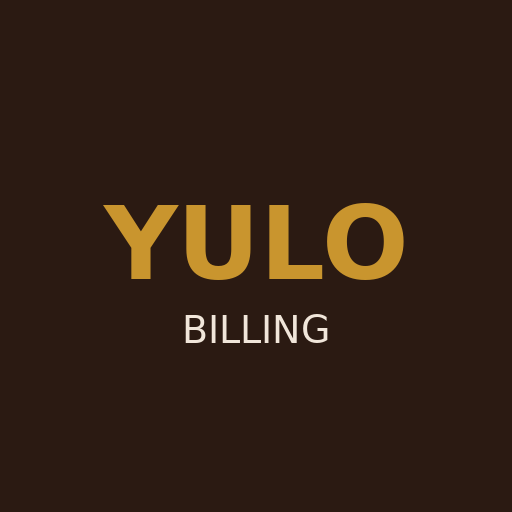
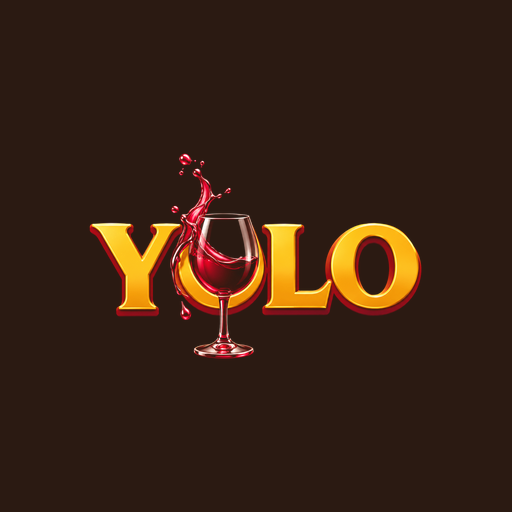
Add files via upload

Changed region(s): [[0.1562, 0.2812, 0.8438, 0.7188]]

diff --git a/js/admin.js b/js/admin.js
@@ -1,7 +1,8 @@
 // Menu management, settings, backup and restore.
 import * as db from './db.js';
 import * as printer from './printer.js';
-import {S, emit, reloadProducts, saveSettings, categories} from './state.js';
+import {S, emit, reloadProducts, saveSettings, categories, saveAllFiles, savePendingFiles} from './state.js';
+import * as files from './files.js';
 import {esc, rupees, toPaise, dayKey, download, billLabel} from './util.js';
 import {buildReceipt, toText, toEscPos} from './receipt.js';
 import {parseCSV, toCSV} from './csv.js';
@@ -151,6 +152,13 @@ export function initSettings() {
   $('#sBackupShare').onclick = () => backup('share');
   $('#sRestore').onclick = () => $('#sRestoreFile').click();
   $('#sRestoreFile').onchange = async e => { const f = e.target.files[0]; e.target.value = ''; if (f) restore(await f.text()); };
+  $('#fChoose').onclick = async () => {
+    try { await files.choose(); } catch (e) { if (e.name !== 'AbortError') toast('Folder: ' + e.message, true); return; }
+    toast('Bills folder set. Saving all bills into it…'); await saveAllFiles(); renderSettings();
+    toast('All bills are saved in the YULO Bills folder');
+  };
+  $('#fAllow').onclick = () => allowFolder();
+  $('#fRebuild').onclick = rebuildFromFolder;
   $('#sErase').onclick = async () => {
     if (!await confirmBox('Erase ALL bills, menu changes and settings on this tablet? Make a backup first. This cannot be undone.', 'Erase everything', true)) return;
     if (!await confirmBox('Are you sure? Every bill will be permanently deleted.', 'Yes, erase', true)) return;
@@ -164,6 +172,13 @@ export async function renderSettings() {
   document.querySelectorAll('[name=pkind]').forEach(r => r.checked = r.value === s.printerKind);
   $('#sPaper').value = String(s.paperCols); $('#sDisc').checked = !!s.discounts;
   $('#sNext').textContent = billLabel(await db.getMeta('nextBillNo', 1));
+  const fs = await files.status(), pend = (await db.getMeta('pendingFiles', [])).length;
+  $('#fStatus').textContent = {unsupported: 'This Chrome cannot save to folders. Update Google Chrome from the Play Store.',
+    none: 'Not set up yet. Tap "Choose bills folder".', 'needs-permission': 'Folder chosen, but Android needs your permission again. Tap "Allow folder access".',
+    ready: 'Saving every bill to: YULO Bills / Months / (month) /'}[fs] + (pend && fs !== 'unsupported' ? ` ${pend} ${pend === 1 ? 'bill is' : 'bills are'} waiting to be saved.` : '');
+  $('#fAllow').hidden = fs !== 'needs-permission';
+  $('#fChoose').textContent = fs === 'none' || fs === 'unsupported' ? 'Choose bills folder' : 'Change bills folder';
+  $('#fChoose').disabled = fs === 'unsupported';
   const last = await db.getMeta('lastBackup', null);
   $('#sLastBackup').textContent = last ? new Date(last).toLocaleString('en-IN') : 'Never';
   const persisted = await navigator.storage?.persisted?.();
@@ -199,5 +214,32 @@ async function restore(text) {
   if (data.app !== 'yulo-pos' || !Array.isArray(data.products) || !Array.isArray(data.bills) || !Array.isArray(data.meta)) return toast('That file is not a YULO backup.', true);
   const nowBills = (await db.all('bills')).length;
   if (!await confirmBox(`Replace everything on this tablet (${nowBills} bills, ${S.products.length} menu items) with the backup from ${new Date(data.exportedAt).toLocaleString('en-IN')} (${data.bills.length} bills, ${data.products.length} menu items)?`, 'Restore backup', true)) return;
-  await db.replaceAll(data); location.reload();
+  const dir = await db.getMeta('billsDir', null);
+  await db.replaceAll({...data, meta: data.meta.filter(m => m.key !== 'billsDir')});
+  if (dir) await db.setMeta('billsDir', dir);
+  location.reload();
+}
+
+// ================= BILLS FOLDER =================
+export async function allowFolder() {
+  if (await files.allow()) { await savePendingFiles(); toast('Folder access allowed'); } else toast('Folder access was not allowed. Bills are still saved in the app.', true);
+  if (document.querySelector('#v-settings:not([hidden])')) renderSettings();
+}
+async function rebuildFromFolder() {
+  let st = await files.status();
+  if (st === 'needs-permission' && await files.allow()) st = 'ready';
+  if (st !== 'ready') return toast('Choose the YULO Bills folder first.', true);
+  const {bills, bad} = await files.readAll();
+  if (!bills.length) return toast('No bill files found in the YULO Bills folder.', true);
+  const have = new Set((await db.all('bills')).map(b => b.no)), missing = bills.filter(b => !have.has(b.no));
+  const max = Math.max(...bills.map(b => b.no)), next = await db.getMeta('nextBillNo', 1);
+  const msg = `Found ${bills.length} bills in the folder. ${missing.length} of them are not in the app and will be added back` +
+    (max + 1 > next ? `, and the next bill will be ${billLabel(max + 1)}.` : '.') + (bad.length ? ` ${bad.length} files could not be read and will be skipped.` : '');
+  if (!missing.length && max + 1 <= next) return toast('Nothing to rebuild: all bills in the folder are already in the app.');
+  if (!await confirmBox(msg, 'Rebuild')) return;
+  await db.putMany('bills', missing);
+  if (max + 1 > next) await db.setMeta('nextBillNo', max + 1);
+  const latest = bills.reduce((a, b) => b.createdAt > a ? b.createdAt : a, await db.getMeta('lastBillAt', ''));
+  await db.setMeta('lastBillAt', latest);
+  emit('bills'); emit('settings'); toast(`Rebuilt: ${missing.length} bills added`);
 }

diff --git a/js/files.js b/js/files.js
@@ -1,0 +1,56 @@
+// Saves every bill as a .txt file in:  YULO Bills / Months / October 2026 / Bill#01_10-10-2026.txt
+// The last line of each file (#DATA ...) holds the bill details so the app can rebuild bills and reports from the folder.
+import * as db from './db.js';
+import {buildReceipt, toText} from './receipt.js';
+import {billLabel, fmtDate} from './util.js';
+const MONTHS = ['January', 'February', 'March', 'April', 'May', 'June', 'July', 'August', 'September', 'October', 'November', 'December'];
+const ROOT = 'YULO Bills';
+let dir = null;
+
+export const supported = () => 'showDirectoryPicker' in window;
+export async function load() { dir = await db.getMeta('billsDir', null); }
+export const folderName = () => dir?.name || '';
+// 'unsupported' | 'none' | 'needs-permission' | 'ready'
+export async function status() {
+  if (!supported()) return 'unsupported';
+  if (!dir) return 'none';
+  try { return await dir.queryPermission({mode: 'readwrite'}) === 'granted' ? 'ready' : 'needs-permission'; }
+  catch { return 'needs-permission'; }
+}
+// Needs a tap. If the chosen folder isn't "YULO Bills", one is created inside it.
+export async function choose() {
+  let d = await window.showDirectoryPicker({id: 'yulo-bills', mode: 'readwrite'});
+  if (d.name !== ROOT) d = await d.getDirectoryHandle(ROOT, {create: true});
+  dir = d; await db.setMeta('billsDir', d);
+}
+export async function allow() { return dir ? await dir.requestPermission({mode: 'readwrite'}) === 'granted' : false; }
+
+export const monthFolder = b => { const d = new Date(b.createdAt); return `${MONTHS[d.getMonth()]} ${d.getFullYear()}`; };
+export const fileName = b => `Bill${billLabel(b.no)}_${fmtDate(new Date(b.createdAt))}.txt`;
+
+export async function writeBill(bill, settings) {
+  if (await status() !== 'ready') throw new Error('Bills folder not available');
+  const months = await dir.getDirectoryHandle('Months', {create: true});
+  const month = await months.getDirectoryHandle(monthFolder(bill), {create: true});
+  const w = await (await month.getFileHandle(fileName(bill), {create: true})).createWritable();
+  await w.write(toText(buildReceipt(bill, settings, false), settings.paperCols) + '\n\n#DATA ' + JSON.stringify(bill) + '\n');
+  await w.close();
+}
+// Reads every bill file back. Files that can't be read are listed in `bad`, never guessed.
+export async function readAll() {
+  const bills = [], bad = [];
+  const months = await dir.getDirectoryHandle('Months', {create: true});
+  for await (const [mName, m] of months.entries()) {
+    if (m.kind !== 'directory') continue;
+    for await (const [fName, f] of m.entries()) {
+      if (f.kind !== 'file' || !fName.endsWith('.txt')) continue;
+      try {
+        const line = (await (await f.getFile()).text()).split('\n').find(l => l.startsWith('#DATA '));
+        const b = JSON.parse(line.slice(6));
+        if (!Number.isInteger(b.no) || !Array.isArray(b.lines) || !b.day) throw 0;
+        bills.push(b);
+      } catch { bad.push(mName + ' / ' + fName); }
+    }
+  }
+  return {bills, bad};
+}

diff --git a/index.html b/index.html
@@ -19,7 +19,7 @@ button:disabled{opacity:.4;cursor:default}
 [hidden]{display:none!important}
 /* top bar */
 .top{background:var(--espresso);color:var(--rail);display:flex;align-items:center;gap:6px;padding:6px 10px;flex-wrap:wrap}
-.brand{font:700 26px/1 var(--cond);color:var(--gold);letter-spacing:.06em;padding:0 10px 0 4px}
+.brand{padding:0 8px 0 0}.brand img{height:52px;width:auto;display:block}
 nav{display:flex;gap:4px;flex:1;overflow-x:auto}
 nav button{padding:12px 16px;border-radius:8px;font-weight:600;white-space:nowrap}
 nav button[aria-current="true"]{background:var(--gold);color:var(--espresso)}
@@ -136,7 +136,7 @@ label.chk input,label.radio input{width:22px;height:22px;min-height:0}
 </style></head>
 <body>
 <header class="top">
- <div class="brand">YULO</div>
+ <div class="brand"><img src="icons/logo-clear.png" alt="YULO"></div>
  <nav>
   <button data-view="billing">Billing</button><button data-view="bills">Bills</button><button data-view="reports">Reports</button>
   <button data-view="menu">Menu</button><button data-view="settings">Settings</button>
@@ -144,6 +144,7 @@ label.chk input,label.radio input{width:22px;height:22px;min-height:0}
  <button id="printerChip">Printer</button>
 </header>
 <div class="banner" id="updateBanner" hidden>A new version of the app is ready. <button>Update now</button></div>
+<div class="banner" id="fileBanner" hidden><span></span> <button></button></div>
 <div class="banner" id="backupBanner" hidden>No backup in the last 24 hours. <button>Back up now</button></div>
 <main>
  <section class="view" id="v-billing">
@@ -212,6 +213,11 @@ label.chk input,label.radio input{width:22px;height:22px;min-height:0}
    <p>Next bill number: <b id="sNext"></b> <button class="btn" id="sNextNo">Change</button></p>
    <label class="chk"><input type="checkbox" id="sDisc"> Allow discounts on bills</label>
    <p class="hint">Currency: Indian Rupee (₹). The printer prints "Rs." because it has no ₹ symbol.</p>
+  </div>
+  <div class="card"><h3>Bills folder (.txt files on this tablet)</h3>
+   <p id="fStatus"></p>
+   <p class="hint">Each bill is saved as YULO Bills / Months / October 2026 / Bill#01_10-10-2026.txt as soon as it is made. If the app's data is ever cleared, choose the same folder again and tap "Rebuild from folder" to get back all bills, reports and bill numbering. (Menu changes and settings come back only from a backup.)</p>
+   <div class="acts"><button class="go" id="fChoose">Choose bills folder</button><button id="fAllow" hidden>Allow folder access</button><button id="fRebuild">Rebuild from folder</button></div>
   </div>
   <div class="card"><h3>Backup</h3>
    <p>Last backup: <b id="sLastBackup"></b></p>

diff --git a/js/state.js b/js/state.js
@@ -3,6 +3,7 @@ import * as db from './db.js';
 import * as printer from './printer.js';
 import {buildReceipt, toEscPos} from './receipt.js';
 import SEED from './seed.js';
+import * as files from './files.js';
 export const DEFAULTS = {
   cafeName: 'YULO CAFE', address: 'SATYA NIKETAN, NEW DELHI', phones: ['', '', ''], fssai: '', headerExtra: '',
   footer: 'Thank you for visiting!', printerKind: 'bluetooth', paperCols: 32, discounts: false,
@@ -13,6 +14,7 @@ export const bus = new EventTarget();
 export const emit = what => bus.dispatchEvent(new Event(what));   // 'products' | 'bills' | 'settings'
 
 export async function loadAll() {
+  await files.load();
   S.settings = {...DEFAULTS, ...await db.getMeta('settings', {})};
   await db.seedOnce(SEED.map((m, i) => ({name: m.n, category: m.c, price: m.p == null ? null : m.p * 100, diet: m.d, code: '', active: true, sort: i})));
   await reloadProducts();
@@ -32,9 +34,23 @@ export async function printBill(bill) {
   try {
     await printer.print(toEscPos(buildReceipt(bill, S.settings, reprint)));
     bill.print = {status: 'printed', count: (bill.print.count || 0) + 1, at: new Date().toISOString()};
-    await db.put('bills', bill); emit('bills');
+    await db.put('bills', bill); emit('bills'); saveBillFile(bill);
   } catch (e) {
-    if (!reprint) { bill.print = {...bill.print, status: 'failed', error: e.message}; await db.put('bills', bill); emit('bills'); }
+    if (!reprint) { bill.print = {...bill.print, status: 'failed', error: e.message}; await db.put('bills', bill); emit('bills'); saveBillFile(bill); }
     throw e;
   }
 }
+
+// ---- Bill files (YULO Bills folder) ----
+// Writes run one at a time. A bill that can't be written yet is remembered and written later.
+let fileQueue = Promise.resolve();
+export function saveBillFile(bill) { fileQueue = fileQueue.then(() => saveNow(bill)); return fileQueue; }
+async function saveNow(bill) {
+  const pending = new Set(await db.getMeta('pendingFiles', []));
+  try { await files.writeBill(bill, S.settings); pending.delete(bill.no); }
+  catch { pending.add(bill.no); }
+  await db.setMeta('pendingFiles', [...pending]); emit('files');
+}
+export async function savePendingFiles() { for (const no of await db.getMeta('pendingFiles', [])) { const b = await db.get('bills', no); if (b) await saveBillFile(b); } }
+export async function saveAllFiles() { for (const b of await db.all('bills')) await saveBillFile(b); }
+

diff --git a/js/app.js b/js/app.js
@@ -4,9 +4,10 @@ import * as printer from './printer.js';
 import {S, bus, loadAll} from './state.js';
 import {initBilling, refreshBilling} from './billing.js';
 import {initBills, renderBills, initReports, renderReports} from './bills.js';
-import {initMenu, renderMenu, initSettings, renderSettings} from './admin.js';
+import {initMenu, renderMenu, initSettings, renderSettings, allowFolder} from './admin.js';
+import * as files from './files.js';
 import {toast} from './ui.js';
-export const VERSION = '1.0.0';
+export const VERSION = '1.1.0';
 const $ = s => document.querySelector(s);
 let view = 'billing';
 const RENDER = {billing: refreshBilling, bills: renderBills, reports: renderReports, menu: renderMenu, settings: renderSettings};
@@ -27,6 +28,16 @@ async function checkBackup() {
   const lastBill = await db.getMeta('lastBillAt', null), last = await db.getMeta('lastBackup', null);
   const due = lastBill && (!last || (lastBill > last && Date.now() - new Date(last) > 24 * 3600e3));
   $('#backupBanner').hidden = !due;
+}
+// Reminds the operator when bills are not reaching the YULO Bills folder.
+async function checkFiles() {
+  const st = await files.status(), pend = (await db.getMeta('pendingFiles', [])).length, b = $('#fileBanner');
+  b.hidden = st === 'unsupported' || (st === 'ready' && !pend) || (st === 'none' && !pend);
+  if (b.hidden) return;
+  const ask = st === 'needs-permission';
+  b.querySelector('span').textContent = ask ? 'Bills folder needs permission to keep saving bill files.' : `${pend} ${pend === 1 ? 'bill is' : 'bills are'} not saved in the YULO Bills folder yet.`;
+  b.querySelector('button').textContent = ask ? 'Allow folder access' : 'Set up folder';
+  b.querySelector('button').onclick = () => ask ? allowFolder().then(checkFiles) : show('settings');
 }
 function updateBanner(worker) {
   const b = $('#updateBanner'); b.hidden = false;
@@ -51,6 +62,8 @@ async function boot() {
   bus.addEventListener('bills', () => { checkBackup(); if (view !== 'billing') RENDER[view](); });
   bus.addEventListener('settings', () => { refreshBilling(); if (view === 'settings') renderSettings(); });
   bus.addEventListener('backup', checkBackup);
+  bus.addEventListener('files', () => { checkFiles(); if (view === 'settings') renderSettings(); });
+  checkFiles();
   checkBackup(); setInterval(checkBackup, 15 * 60e3);
   $('#version').textContent = VERSION;
   show('billing');

diff --git a/js/bills.js b/js/bills.js
@@ -1,7 +1,7 @@
 // Bill history, one bill's details (print / reprint / cancel), and sales reports.
 import * as db from './db.js';
 import * as printer from './printer.js';
-import {S, emit, printBill} from './state.js';
+import {S, emit, printBill, saveBillFile} from './state.js';
 import {esc, rupees, billLabel, dayKey, fmtDate, fmtTime} from './util.js';
 import {buildReceipt, toText} from './receipt.js';
 import {modal, confirmBox, toast} from './ui.js';
@@ -38,7 +38,7 @@ export function billModal(bill, {fresh = false} = {}) {
     if (a === 'print') doPrint();
     if (a === 'connect') { try { await printer.connect(); paint(); doPrint(); } catch (err) { if (err.name !== 'NotFoundError') toast('Printer: ' + err.message, true); } }
     if (a === 'cancel' && await confirmBox(`Cancel bill ${billLabel(bill.no)}? It stays in history but is removed from sales totals. This cannot be undone.`, 'Cancel bill', true)) {
-      bill.status = 'cancelled'; bill.cancelledAt = new Date().toISOString(); await db.put('bills', bill); emit('bills'); paint();
+      bill.status = 'cancelled'; bill.cancelledAt = new Date().toISOString(); await db.put('bills', bill); emit('bills'); saveBillFile(bill); paint();
     }
   };
   paint();

diff --git a/js/billing.js b/js/billing.js
@@ -1,6 +1,6 @@
 // Counter billing screen.
 import * as db from './db.js';
-import {S, categories, emit} from './state.js';
+import {S, categories, emit, saveBillFile} from './state.js';
 import {esc, rupees, billLabel, dayKey} from './util.js';
 import {computeTax} from './tax.js';
 import {keypad, confirmBox, toast} from './ui.js';
@@ -88,7 +88,7 @@ async function completeAndPrint() {
       itemCount: t.count, subtotal: t.subtotal, discount: t.disc, tax: t.tax, total: t.total,
       status: 'completed', print: {status: 'pending', count: 0}
     });
-    cart = []; discount = 0; emit('bills');
+    cart = []; discount = 0; emit('bills'); saveBillFile(bill);
     billModal(bill, {fresh: true});
   } catch (e) { toast('The bill could not be saved (' + e.message + '). Nothing was recorded; tap Print Bill again.', true); }
   finally { busy = false; renderBill(); renderProducts(); }

diff --git a/sw.js b/sw.js
@@ -1,7 +1,7 @@
 // Keeps a copy of the app on the tablet so it opens and bills with no internet.
 // When the app is updated, CACHE changes and the app offers "Update now".
-const CACHE = 'yulo-pos-1.0.0';
-const FILES = ['./', './index.html', './manifest.webmanifest', './icons/icon-192.png', './icons/icon-512.png',
+const CACHE = 'yulo-pos-1.1.0';
+const FILES = ['./', './index.html', './manifest.webmanifest', './icons/icon-192.png', './icons/icon-512.png', './icons/logo-clear.png', './js/files.js',
   './js/app.js', './js/admin.js', './js/billing.js', './js/bills.js', './js/csv.js', './js/db.js', './js/printer.js',
   './js/receipt.js', './js/seed.js', './js/state.js', './js/tax.js', './js/ui.js', './js/util.js'];
 self.addEventListener('install', e => e.waitUntil(caches.open(CACHE).then(c => c.addAll(FILES))));

diff --git a/js/db.js b/js/db.js
@@ -46,7 +46,7 @@ export async function completeBill(bill) {
   await done(t);
   return bill;
 }
-export async function dump() { return {products: await all('products'), bills: await all('bills'), meta: await all('meta')}; }
+export async function dump() { return {products: await all('products'), bills: await all('bills'), meta: (await all('meta')).filter(m => m.key !== 'billsDir')}; }
 export async function replaceAll(data) {
   const t = db.transaction(['products', 'bills', 'meta'], 'readwrite');
   for (const s of ['products', 'bills', 'meta']) { const st = t.objectStore(s); st.clear(); (data[s] || []).forEach(x => st.put(x)); }

diff --git a/README.md b/README.md
@@ -30,6 +30,14 @@ Works without internet after the first opening. No subscription, no server: bill
 **Add item** for new dishes. **Rename category** to rename a section. **Export CSV / Import CSV** to edit many items in a spreadsheet;
 importing matches items by name, so it never creates duplicates, and shows what will change before applying.
 
+## Bills folder (.txt files)
+Settings > Bills folder > **Choose bills folder**: pick or create **YULO Bills** (if you pick another folder, YULO Bills is created inside it).
+Every bill is then saved automatically as `YULO Bills/Months/October 2026/Bill#01_10-10-2026.txt` the moment it is made.
+The file looks like the receipt; its last line (`#DATA ...`) lets the app read the bill back. Don't edit that line.
+If Android asks again, a banner says **Allow folder access**: tap it and any waiting bills are saved.
+If the app's data is ever cleared: Settings > **Choose bills folder** (same YULO Bills folder) > **Rebuild from folder**.
+Bills, reports and bill numbering come back. Menu changes and settings come back only from a backup.
+
 ## Backup (do this every day)
 Settings > Backup > **Send backup to Drive / WhatsApp** (or **Save backup to tablet**). A yellow banner reminds you if a day passes without one.
 To recover: Settings > Backup > **Restore from backup** and pick the file.
